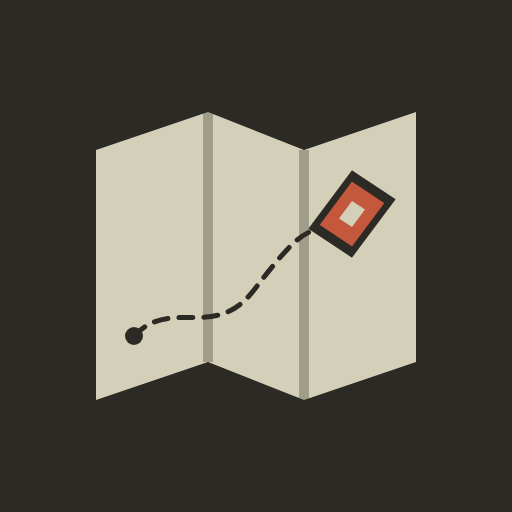
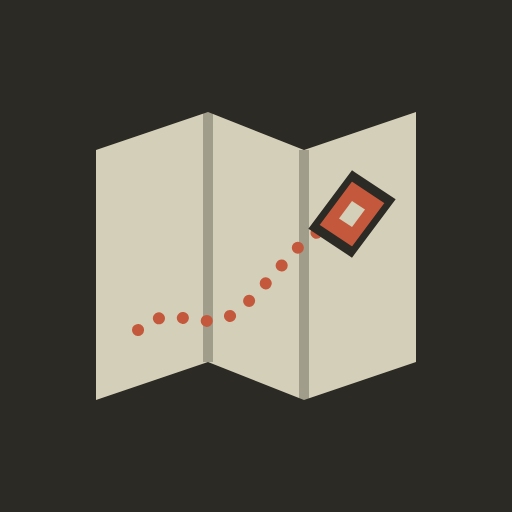
v1.7.5：地圖路線重新設計（實線/弧形圓點/方向箭頭）、App 圖示圓點路線
Claude-Session: https://claude.ai/code/session_015K3AjX9uqiRfEN2HU6P8sy

Changed region(s): [[0.25, 0.5625, 0.5, 0.6875], [0.5, 0.4375, 0.625, 0.5625]]

diff --git a/js/app.js b/js/app.js
@@ -7,7 +7,7 @@
   const catIc = (c) => I('c_' + (C.CATS[c] ? c : 'other'));
   const dc = (d) => { const pal = (THEME_PAL[activeTheme()] || C.PALETTE); return d > 0 ? pal[(d - 1) % pal.length] : 'var(--muted)'; };
   const stepIc = (e) => I(/🚌|🚎/.test(e) ? 'bus' : /⛴/.test(e) ? 'ferry' : 'transit');
-  const VERSION = '1.7.4';
+  const VERSION = '1.7.5';
   const STORE_KEY = 'tripmap.v1';
   const $ = (s, el) => (el || document).querySelector(s);
   const esc = (s) => String(s == null ? '' : s).replace(/[&<>"']/g, (c) => ({ '&': '&amp;', '<': '&lt;', '>': '&gt;', '"': '&quot;', "'": '&#39;' }[c]));
@@ -69,6 +69,7 @@
     map.on('click', onMapClick);
     const lbl = () => document.getElementById('map').classList.toggle('show-labels', map.getZoom() >= 15);
     map.on('zoomend', lbl); lbl();
+    map.on('zoomend', () => renderMap(false));
   }
   function setTiles() {
     let k = settings().tiles;
@@ -81,6 +82,39 @@
   function pinIcon(color, label, cls, html) {
     return L.divIcon({ className: 'pin-wrap', html: '<div class="pin ' + (cls || '') + '" style="--c:' + color + '"><span>' + (html || esc(label)) + '</span></div>',
       iconSize: [32, 40], iconAnchor: [16, 40], popupAnchor: [0, -40] });
+  }
+
+  /** 沒有實際路線時畫一條微彎的弧線（看起來是「示意」而不是道路） */
+  function arcCoords(a, b) {
+    const lat0 = (a.lat + b.lat) / 2, k = Math.cos(lat0 * Math.PI / 180);
+    const ax = a.lng * k, ay = a.lat, bx = b.lng * k, by = b.lat;
+    const mx = (ax + bx) / 2, my = (ay + by) / 2, dx = bx - ax, dy = by - ay;
+    const bend = 0.18; // 弧度：線段長度的 18%
+    const cx = mx - dy * bend, cy = my + dx * bend;
+    const out = [];
+    for (let i = 0; i <= 24; i++) {
+      const u = i / 24, v = 1 - u;
+      const x = v * v * ax + 2 * v * u * cx + u * u * bx, y = v * v * ay + 2 * v * u * cy + u * u * by;
+      out.push([y, x / k]);
+    }
+    return out;
+  }
+  /** 在線段中點放一個小箭頭表示方向 */
+  function addArrow(coords, col) {
+    if (coords.length < 2) return;
+    const pts = coords.map((c) => map.latLngToLayerPoint(c));
+    let total = 0; const seg = [];
+    for (let i = 1; i < pts.length; i++) { const d = pts[i].distanceTo(pts[i - 1]); seg.push(d); total += d; }
+    if (total < 46) return; // 太短不放
+    let acc = 0, i = 0;
+    while (i < seg.length && acc + seg[i] < total / 2) acc += seg[i++];
+    i = Math.min(i, seg.length - 1);
+    const p0 = pts[i], p1 = pts[i + 1], t = seg[i] ? (total / 2 - acc) / seg[i] : 0;
+    const mid = L.point(p0.x + (p1.x - p0.x) * t, p0.y + (p1.y - p0.y) * t);
+    const ang = Math.atan2(p1.y - p0.y, p1.x - p0.x) * 180 / Math.PI;
+    L.marker(map.layerPointToLatLng(mid), { interactive: false, keyboard: false, zIndexOffset: -500,
+      icon: L.divIcon({ className: 'route-arrow', iconSize: [14, 14], iconAnchor: [7, 7],
+        html: '<svg viewBox="0 0 14 14" style="transform:rotate(' + ang.toFixed(1) + 'deg)"><path d="M3 2.5L10 7L3 11.5" fill="none" stroke="' + col + '" stroke-width="2.6" stroke-linecap="round" stroke-linejoin="round"/></svg>' }) }).addTo(routeLayer);
   }
 
   function renderMap(fit) {
@@ -105,19 +139,29 @@
     // 路線
     const days = f ? [f] : range(t.days);
     if (t.places.length <= 400) {
+      const halo = cssVar('--paper') || '#f4efdf';
       for (const d of days) {
+        const col = dc(d);
         for (const [a, b] of dayLegs(t, d)) {
           const leg = legInfo(t, a, b);
-          const coords = leg.res.coords && leg.res.coords.length ? leg.res.coords : [[a.lat, a.lng], [b.lat, b.lng]];
-          L.polyline(coords, { color: '#2f2c25', weight: (f ? 5 : 4) + 2.5, opacity: 0.35, dashArray: leg.res.estimated ? '2 9' : null, lineCap: 'butt' }).addTo(routeLayer);
-          L.polyline(coords, { color: dc(d), weight: f ? 4 : 3, opacity: 0.95, dashArray: leg.res.estimated ? '2 9' : null, lineCap: 'butt' }).addTo(routeLayer);
+          const real = !leg.res.estimated && leg.res.coords && leg.res.coords.length > 2;
+          const coords = real ? leg.res.coords : arcCoords(a, b);
+          const w = f ? 4.5 : 3.5;
+          if (real) {
+            L.polyline(coords, { color: halo, weight: w + 4, opacity: 0.9, lineCap: 'round', lineJoin: 'round', interactive: false, smoothFactor: 1.5 }).addTo(routeLayer);
+            L.polyline(coords, { color: col, weight: w, opacity: 0.95, lineCap: 'round', lineJoin: 'round', interactive: false, smoothFactor: 1.5 }).addTo(routeLayer);
+          } else {
+            L.polyline(coords, { color: halo, weight: w + 3.5, opacity: 0.9, lineCap: 'round', dashArray: '0.1 ' + (w + 7), interactive: false }).addTo(routeLayer);
+            L.polyline(coords, { color: col, weight: w + 1, opacity: 1, lineCap: 'round', dashArray: '0.1 ' + (w + 7), interactive: false }).addTo(routeLayer);
+          }
+          addArrow(coords, col);
         }
       }
     }
     // 量距離
     const ma = findPointAny(t, S.ui.measure.a), mb = findPointAny(t, S.ui.measure.b);
     if (S.ui.tab === 'measure' && ma && mb) {
-      L.polyline([[ma.lat, ma.lng], [mb.lat, mb.lng]], { color: '#111', weight: 2, dashArray: '2 6' }).addTo(routeLayer);
+      L.polyline(arcCoords(ma, mb), { color: cssVar('--accent'), weight: 3, dashArray: '0.1 8', lineCap: 'round' }).addTo(routeLayer);
     }
     if (fit) fitTo(visible.length ? visible.concat(f ? [C.dayEnds(t, f).start, C.dayEnds(t, f).end].filter(Boolean) : hotels(t)) : allPoints(t));
   }

diff --git a/css/app.css b/css/app.css
@@ -328,3 +328,6 @@ html[data-theme="neon"] .pin { border-color: #101012; } html[data-theme="neon"] 
 .plabel b { display: inline-block; min-width: 16px; margin-right: 4px; padding: 0 3px; border-radius: 8px; background: var(--lc, var(--ink)); color: #fff; font: 700 10px/15px var(--mono); text-align: center; }
 
 html[data-theme="relic"] .stop .cat, html[data-theme="neon"] .stop .cat { filter: brightness(1.6) saturate(1.1); }
+
+.route-arrow { background: none; border: 0; pointer-events: none; }
+.route-arrow svg { width: 14px; height: 14px; display: block; filter: drop-shadow(0 0 1.5px rgba(255,255,255,.95)); }

diff --git a/sw.js b/sw.js
@@ -1,5 +1,5 @@
 /* Service worker：程式離線可開、看過的地圖圖磚離線可看 */
-const VERSION = 'v1.7.4';
+const VERSION = 'v1.7.5';
 const SHELL = 'shell-' + VERSION;
 const TILES = 'tiles-v1';
 const MAX_TILES = 3000;

diff --git a/CHANGELOG.md b/CHANGELOG.md
@@ -1,5 +1,10 @@
 # 更新紀錄
 
+## 1.7.5 — 2026-11-20
+- 地圖路線重新設計：實際路線改為圓角實線＋淺色描邊；估算路段改為微彎的圓點虛線（一看就知道是示意）；每段中間加小箭頭表示方向
+- 量距離的連線改為同風格的弧形圓點線
+- App 圖示：路線改為鏽紅色圓點，與目的地菱形同色
+
 ## 1.7.4 — 2026-11-20
 - 地圖標記改為「每個分類一個顏色」（餐廳鏽紅、咖啡焦糖、寺廟朱紅、公園橄欖綠…共 19 色），清單裡的分類小圖示同色；每天的區分改由路線顏色與號碼標籤負責
 - App 圖示：菱形平貼在右側紙面，路線改為細虛線＋自然彎曲，起點小圓點
